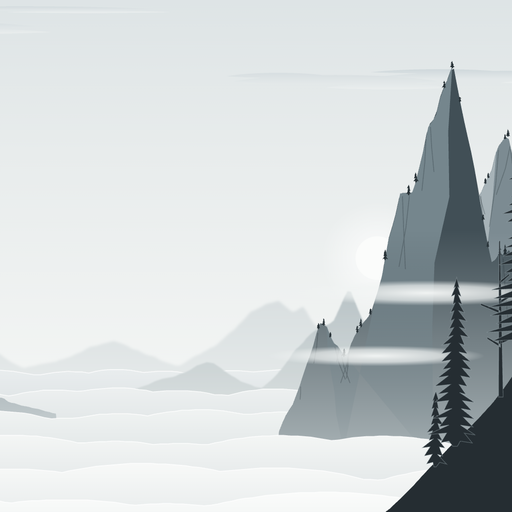
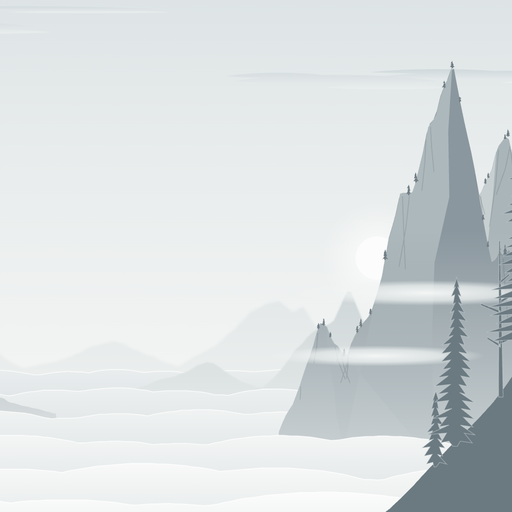
Lighten the whole view: near rock and firs are soft mid grays, nothing is black

Changed region(s): [[0.5312, 0.125, 1.0, 1.0]]

diff --git a/hooks/scene/land.ts b/hooks/scene/land.ts
@@ -26,32 +26,32 @@ export const RANGES: readonly Range[] = [
   {
     floor: 704,
     steep: 1.3,
-    rock: '#d2d9db',
-    foot: '#e6eaea',
+    rock: '#dfe4e5',
+    foot: '#ecefee',
     peaks: [{ x: 330, reach: 250, rise: 250 }, { x: 590, reach: 150, rise: 100 }, { x: 870, reach: 170, rise: 60 }, { x: 1150, reach: 210, rise: 130 }, { x: 1590, reach: 260, rise: 330 }],
   },
   {
     floor: 736,
     steep: 1.15,
-    rock: '#b3bec2',
-    foot: '#d8dede',
+    rock: '#cbd3d5',
+    foot: '#e3e7e7',
     peaks: [{ x: 190, reach: 210, rise: 340 }, { x: 470, reach: 130, rise: 160 }, { x: 1040, reach: 120, rise: 52 }, { x: 1300, reach: 150, rise: 190 }],
   },
   {
     floor: 778,
     steep: 0.95,
-    rock: '#7c8b92',
-    foot: '#c6ced0',
-    lit: '#a7b3b8',
+    rock: '#aab5b9',
+    foot: '#d9dedf',
+    lit: '#c7cfd1',
     firs: { spacing: 16, low: 6, high: 13 },
     peaks: [{ x: 70, reach: 200, rise: 430 }, { x: 640, reach: 100, rise: 44 }, { x: 1560, reach: 210, rise: 500 }],
   },
   {
     floor: 826,
     steep: 0.8,
-    rock: '#414f56',
-    foot: '#aab4b7',
-    lit: '#75868d',
+    rock: '#8a979e',
+    foot: '#cbd2d4',
+    lit: '#adb8bc',
     firs: { spacing: 13, low: 9, high: 24 },
     peaks: [{ x: -20, reach: 190, rise: 540 }, { x: 320, reach: 96, rise: 150 }, { x: 1266, reach: 84, rise: 210 }, { x: 1466, reach: 196, rise: 580 }],
   },
@@ -172,7 +172,7 @@ function cracks(seed: number, index: number, line: Skyline): string {
     }
   })
 
-  return `<path d="${lines}" fill="none" stroke="#263035" stroke-opacity=".3" stroke-width="1.5" stroke-linecap="round" stroke-linejoin="round"/>`
+  return `<path d="${lines}" fill="none" stroke="#66747b" stroke-opacity=".3" stroke-width="1.5" stroke-linecap="round" stroke-linejoin="round"/>`
 }
 
 /** Firs on the ledges, small against the rock, which is what shows how big the peaks are. */
@@ -206,7 +206,7 @@ export function range(seed: number, index: number): string {
   return (
     `<path d="M-40 ${shape.floor + 70}L${edge.join('L')}L${WIDTH + 40} ${shape.floor + 70}Z" fill="url(#rock${index})"${index < 2 ? ` filter="url(#far${index})"` : ''}/>` +
     (shape.lit === undefined ? '' : sunlit(seed, index, line) + cracks(seed, index, line)) +
-    (shape.firs === undefined ? '' : `<path d="${ledgeFirs(seed, index, line, shape.firs)}" fill="#263035"/>`)
+    (shape.firs === undefined ? '' : `<path d="${ledgeFirs(seed, index, line, shape.firs)}" fill="#6f7c83"/>`)
   )
 }
 
@@ -229,5 +229,5 @@ export function ledgeShape(): string {
     edge.push(`${x} ${Math.round(ledge(x))}`)
   }
 
-  return `<path d="M-20 1010L${edge.join('L')}L${WIDTH + 20} 1010Z" fill="#252d32"/>`
+  return `<path d="M-20 1010L${edge.join('L')}L${WIDTH + 20} 1010Z" fill="#6b7980"/>`
 }

diff --git a/hooks/scene/life.ts b/hooks/scene/life.ts
@@ -44,7 +44,7 @@ function flock(seed: number, salt: number, count: number, size: number): string 
     birds += `<g transform="translate(${x} ${y}) scale(${size})"><path class="flap" style="animation-duration:${pace}s;animation-delay:-${(index * 0.17).toFixed(2)}s" d="M-10 1Q-5 -7 0 0Q5 -7 10 1"/></g>`
   }
 
-  return `<g fill="none" stroke="#2f3a40" stroke-width="1.8" stroke-linecap="round" stroke-linejoin="round">${birds}</g>`
+  return `<g fill="none" stroke="#6b7980" stroke-width="1.8" stroke-linecap="round" stroke-linejoin="round">${birds}</g>`
 }
 
 /** The near flock crosses the sky left to right. The far one, smaller, goes the other way low over the peaks. */
@@ -58,5 +58,5 @@ export function farFlock(seed: number): string {
 
 /** An eagle gliding in a wide slow circle, seen from far below. */
 export function eagle(): string {
-  return '<g class="soar"><path d="M0 -3C-9 -6 -27 -8 -42 -2C-29 -2 -14 2 -4 4L-3 11L0 7L3 11L4 4C14 2 29 -2 42 -2C27 -8 9 -6 0 -3Z" fill="#2f3a40" transform="scale(.62)"/></g>'
+  return '<g class="soar"><path d="M0 -3C-9 -6 -27 -8 -42 -2C-29 -2 -14 2 -4 4L-3 11L0 7L3 11L4 4C14 2 29 -2 42 -2C27 -8 9 -6 0 -3Z" fill="#6b7980" transform="scale(.62)"/></g>'
 }

diff --git a/hooks/scene.ts b/hooks/scene.ts
@@ -32,7 +32,7 @@ export function sceneSvg(seed: number): string {
     nearFlock(seed) +
     eagle() +
     ledgeShape() +
-    `<g fill="#252d32" stroke="#a9b8bd" stroke-opacity=".35" stroke-width="1.2">${pines(seed)}</g>` +
+    `<g fill="#6b7980" stroke="#c9d3d6" stroke-opacity=".5" stroke-width="1.2">${pines(seed)}</g>` +
     '</svg>'
   )
 }

diff --git a/README.md b/README.md
@@ -1,6 +1,6 @@
 # Vista theme for the Claude desktop app
 
-A quiet view in ink grays, after old Chinese mountain paintings, drawn in a clean modern way. Steep peaks stand out of a sea of mist like islands: pale and soft far away, tall and dark near you, with tiny firs on their ledges and ribbons of mist across their waists.
+A quiet view in ink grays, after old Chinese mountain paintings, drawn in a clean modern way. Steep peaks stand out of a sea of mist like islands: pale and soft far away, taller and a little darker near you, with tiny firs on their ledges and ribbons of mist across their waists.
 
 ![steep gray peaks standing out of a sea of mist, the tall ones at both sides, and calm empty sky in the middle](docs/preview.gif)
 
@@ -15,7 +15,7 @@ These are the old painters' means, kept; the antique look (seals, brush texture,
 - **Emptiness.** Most of the page is unpainted. The eye rests in it.
 - **Thin ink.** Each farther range is paler and softer, and every peak fades into mist at its foot.
 - **Gray only.** No strong color anywhere. The sun is just a white disc in the haze, so it never pulls the eye.
-- **One dark note.** The firs on the near ledge, in the corners, so the rest reads as light and far.
+- **Low contrast.** Even the nearest firs and rock are a soft mid gray, never black, so nothing jars against the pale page.
 - **Stillness.** The mist rolls slowly, ribbons of it drift across the peaks, and a few birds cross.
 
 ## A new view every session

diff --git a/docs/references.md b/docs/references.md
@@ -100,6 +100,6 @@ So the two were joined: the steep peaks, mist ribbons, tiny firs and sea of clou
 2. The middle is empty on purpose. The words sit there.
 3. Steep peaks are welcome, but only at the sides.
 4. Farther is paler and softer. Every peak dissolves into mist at its foot.
-5. One dark accent (the near firs), in the corners.
+5. Low contrast everywhere: the darkest thing is a soft mid gray, never black. Dark near peaks and black firs were tried and felt jarring.
 6. Never put a light source or its rays behind the words, and never let it be the brightest or most colored thing on screen.
 7. Slow motion only: rolling mist, a few birds.
